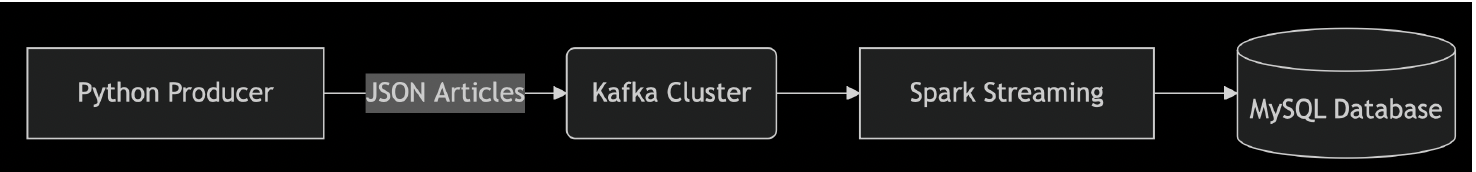
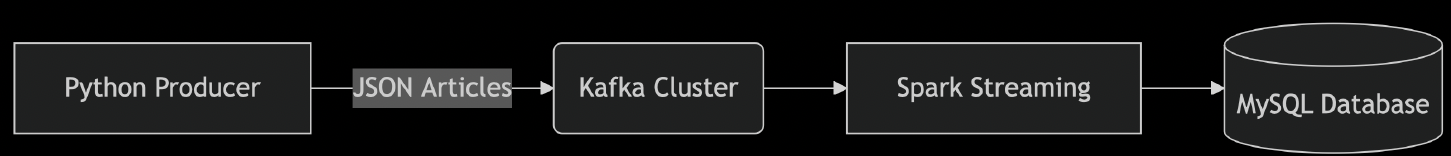
fixed images

Changed region(s): [[0.0, 0.0, 1.0, 1.0]]

diff --git a/README.md b/README.md
@@ -46,7 +46,7 @@ The pipeline:
   `bitcoin`, `cryptocurrency`, `crypto`, `BTC`, `btc`
 - Saves raw data to a local file: `articles.json`
 
-📷 ![articles.json Output](images/2.pmg)
+📷 ![articles.json Output](images/2.png)
 
 ---
 
